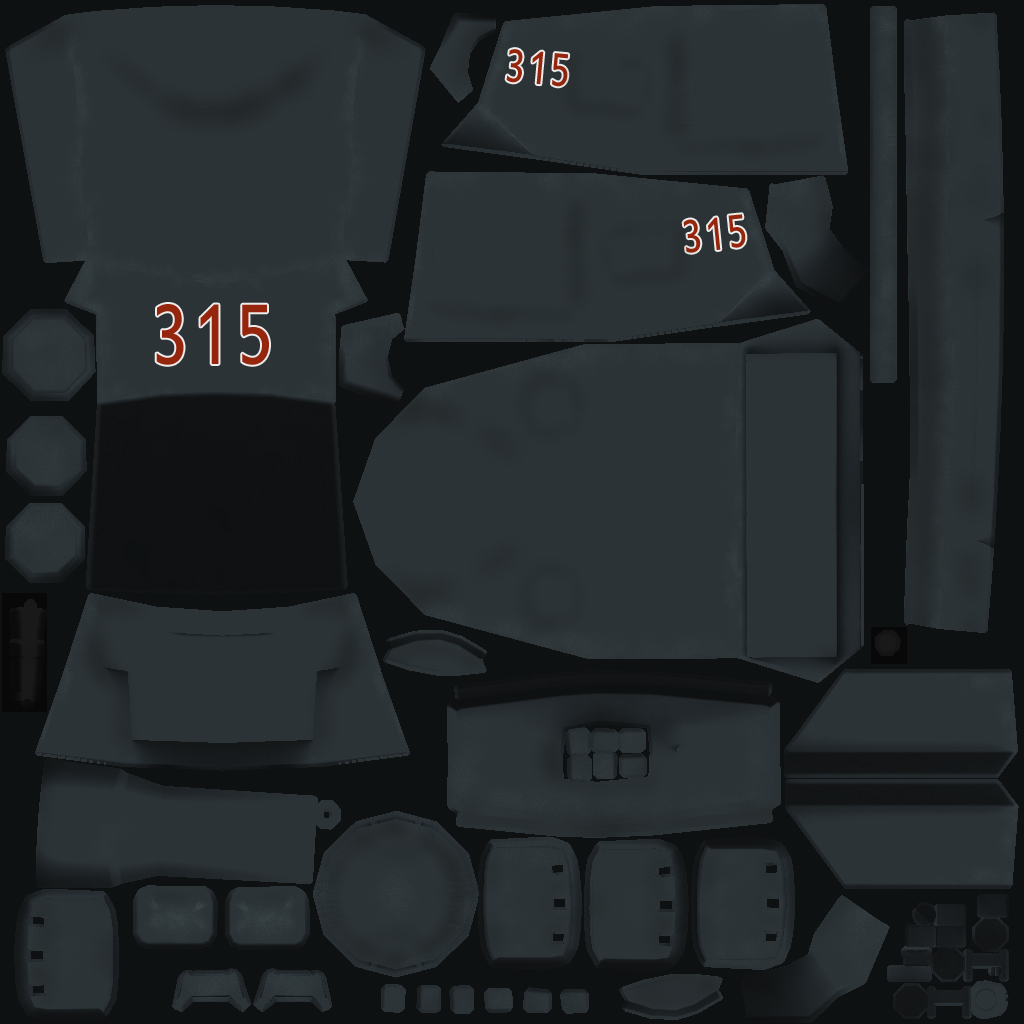
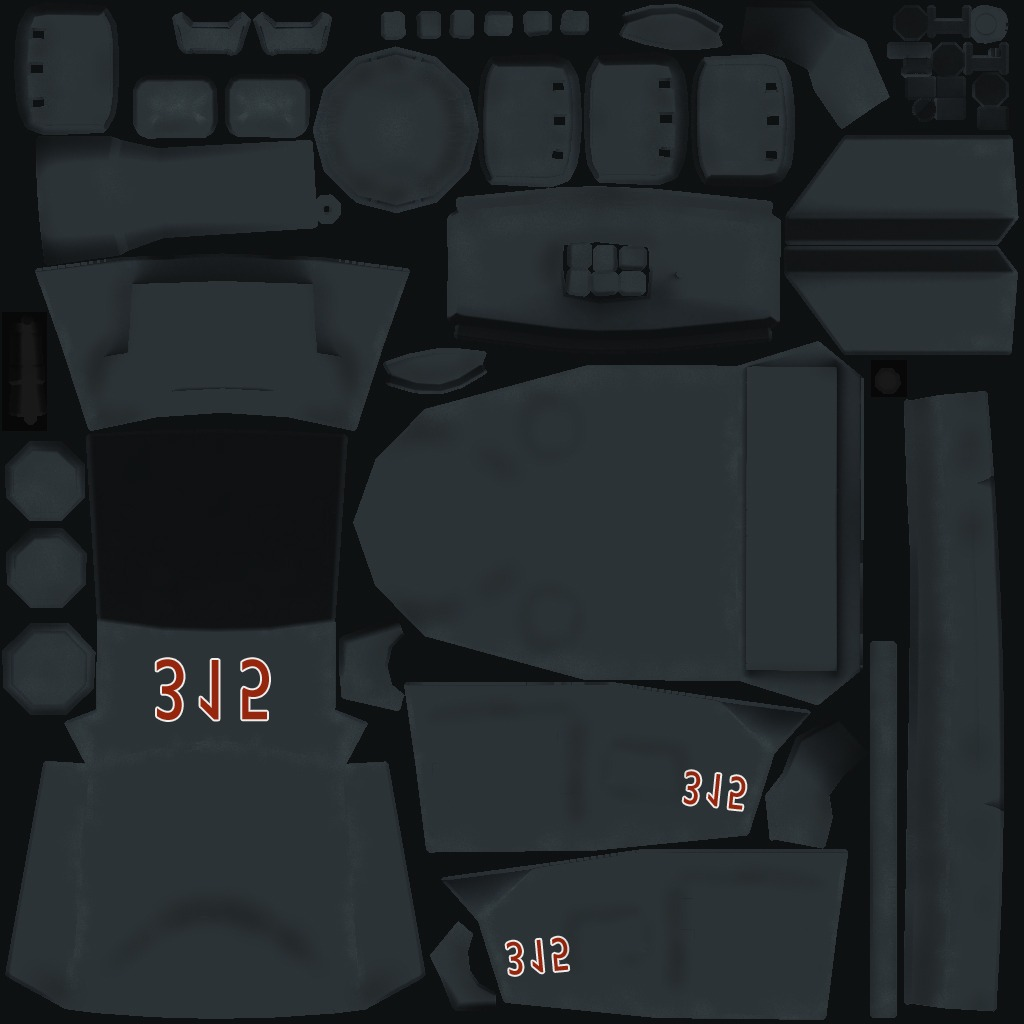
textures flipped for proper display

diff --git a/TankFieldSimulator/TankFieldSimulator/main.cpp b/TankFieldSimulator/TankFieldSimulator/main.cpp
@@ -16,8 +16,8 @@ unsigned int meshID = 0;
 #pragma comment (lib, "OpenGL32.lib")
 
 // settings
-const unsigned int SCR_WIDTH = 800;
-const unsigned int SCR_HEIGHT = 600;
+const unsigned int SCR_WIDTH = 1000;
+const unsigned int SCR_HEIGHT = 800;
 
 std::unique_ptr<Camera> pCamera;
 std::unique_ptr<Mesh> floorObj;
@@ -44,6 +44,7 @@ int main(int argc, char** argv)
 	glfwWindowHint(GLFW_OPENGL_PROFILE, GLFW_OPENGL_CORE_PROFILE);
 
 	GLFWwindow* window = glfwCreateWindow(SCR_WIDTH, SCR_HEIGHT, "Tank Field Simulator", NULL, NULL);
+	
 	if (window == NULL) {
 		std::cout << "Failed to create GLFW window" << std::endl;
 		glfwTerminate();
@@ -259,9 +260,11 @@ void RenderScene(Shader& shader)
 	helicopterModel = glm::scale(helicopterModel, 0.4f * glm::vec3(1));
 	helicopterModel = glm::rotate(helicopterModel, glm::radians(270.0f), glm::vec3(1, 0, 0));
 	helicopterModel = glm::rotate(helicopterModel, glm::radians(90.0f), glm::vec3(0, 0, 1));
-	glm::mat4 propellerModel = helicopterModel;
-	propellerModel = glm::rotate(helicopterModel, glm::radians(1000 * (float)glfwGetTime()), glm::vec3(0, 0, 1));
-	helicopterObj->RenderModelMesh(shader, helicopterModel, 10, propellerModel);
+
+	glm::mat4 topPropellerModel = helicopterModel;
+	topPropellerModel = glm::rotate(topPropellerModel, glm::radians(1000 * (float)glfwGetTime()), glm::vec3(0, 0, 1));
+
+	helicopterObj->RenderModelMesh(shader, helicopterModel, 10, topPropellerModel);
 
 }
 
